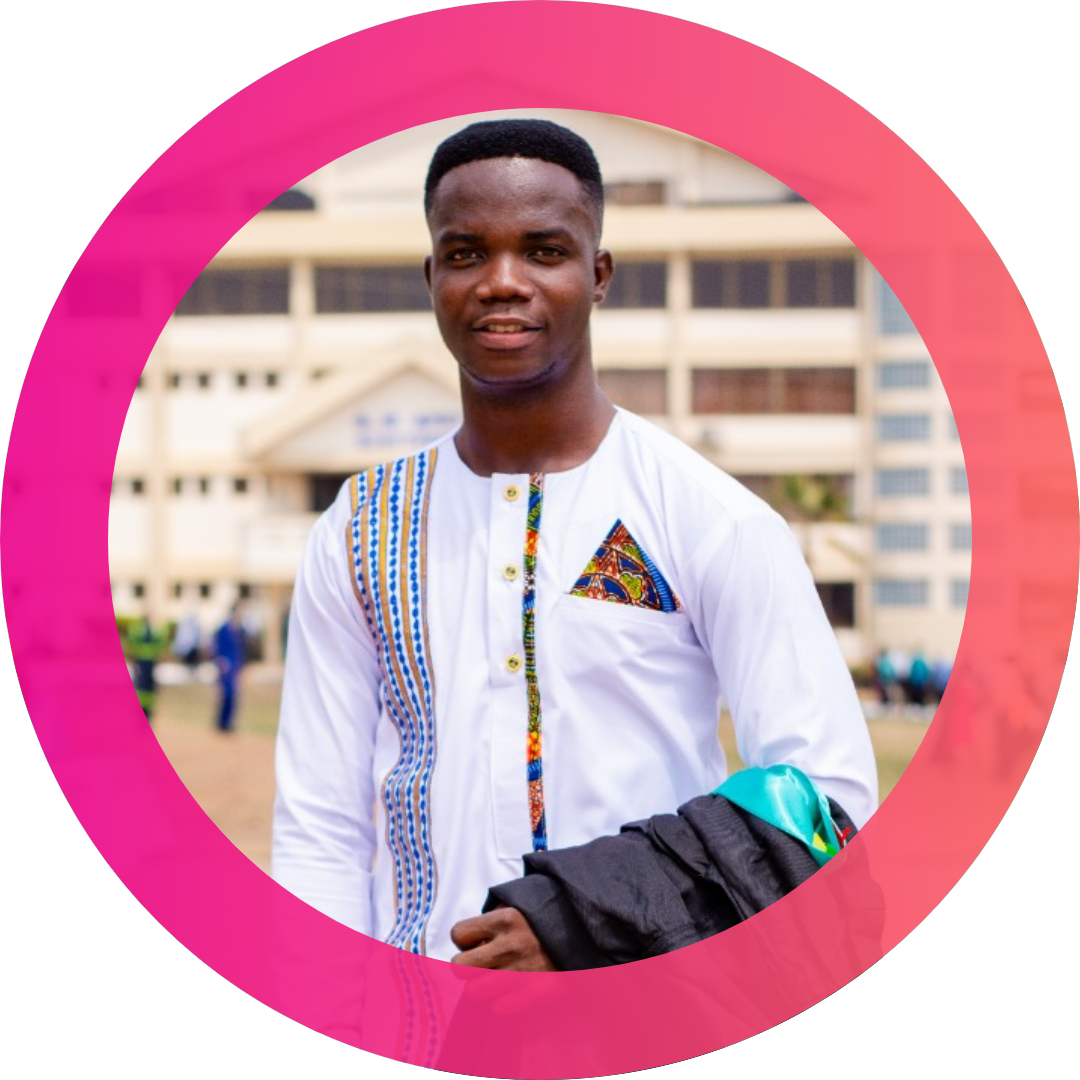
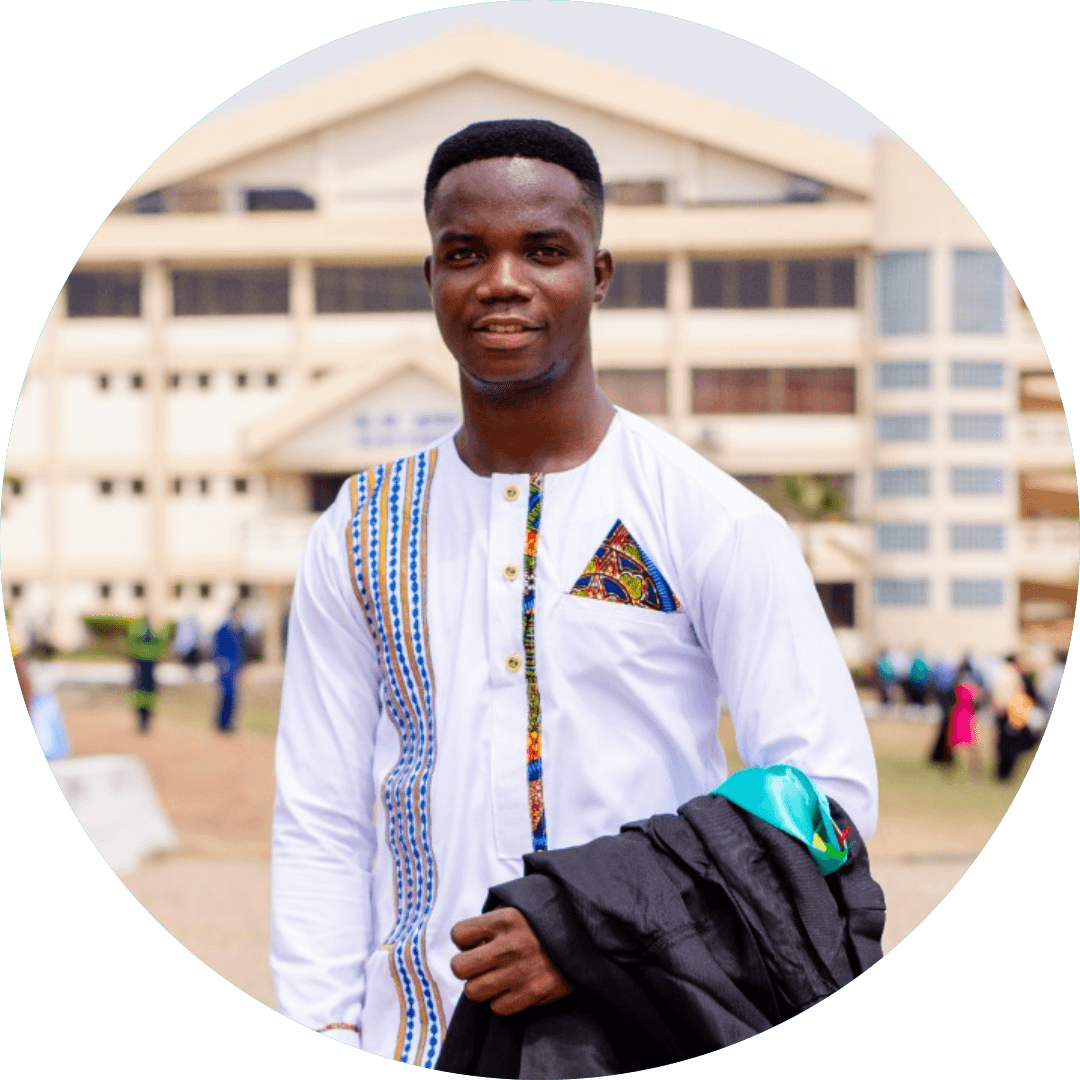
reduce background and profile image size

diff --git a/index.html b/index.html
@@ -31,7 +31,7 @@
 </head>
 <body>
     <div>
-        <img src="./assets/Vincent-profile.png" alt="Vincent Tetteh">
+        <img src="./assets/vincent-profile.png" alt="Vincent Tetteh">
         <h1>Vincent Tetteh</h1>
         <p>Contact Vincent Tetteh for all your application softwares</p>
         <form action="mailto:vincentchrisbone@gmail.com" method="GET">
